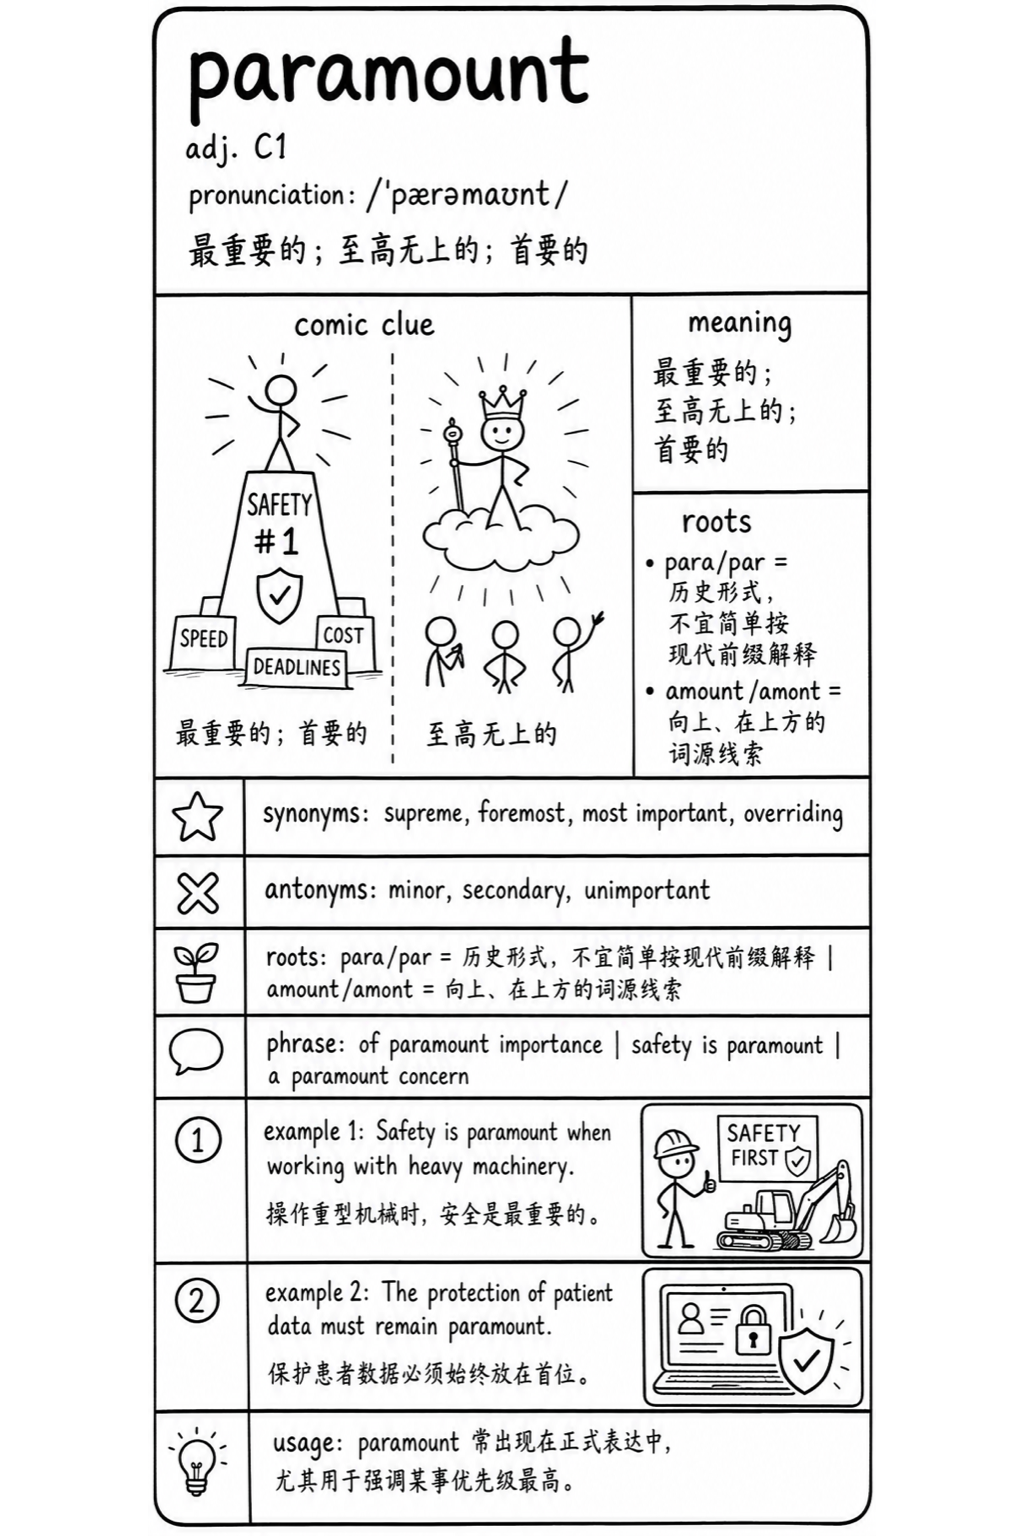
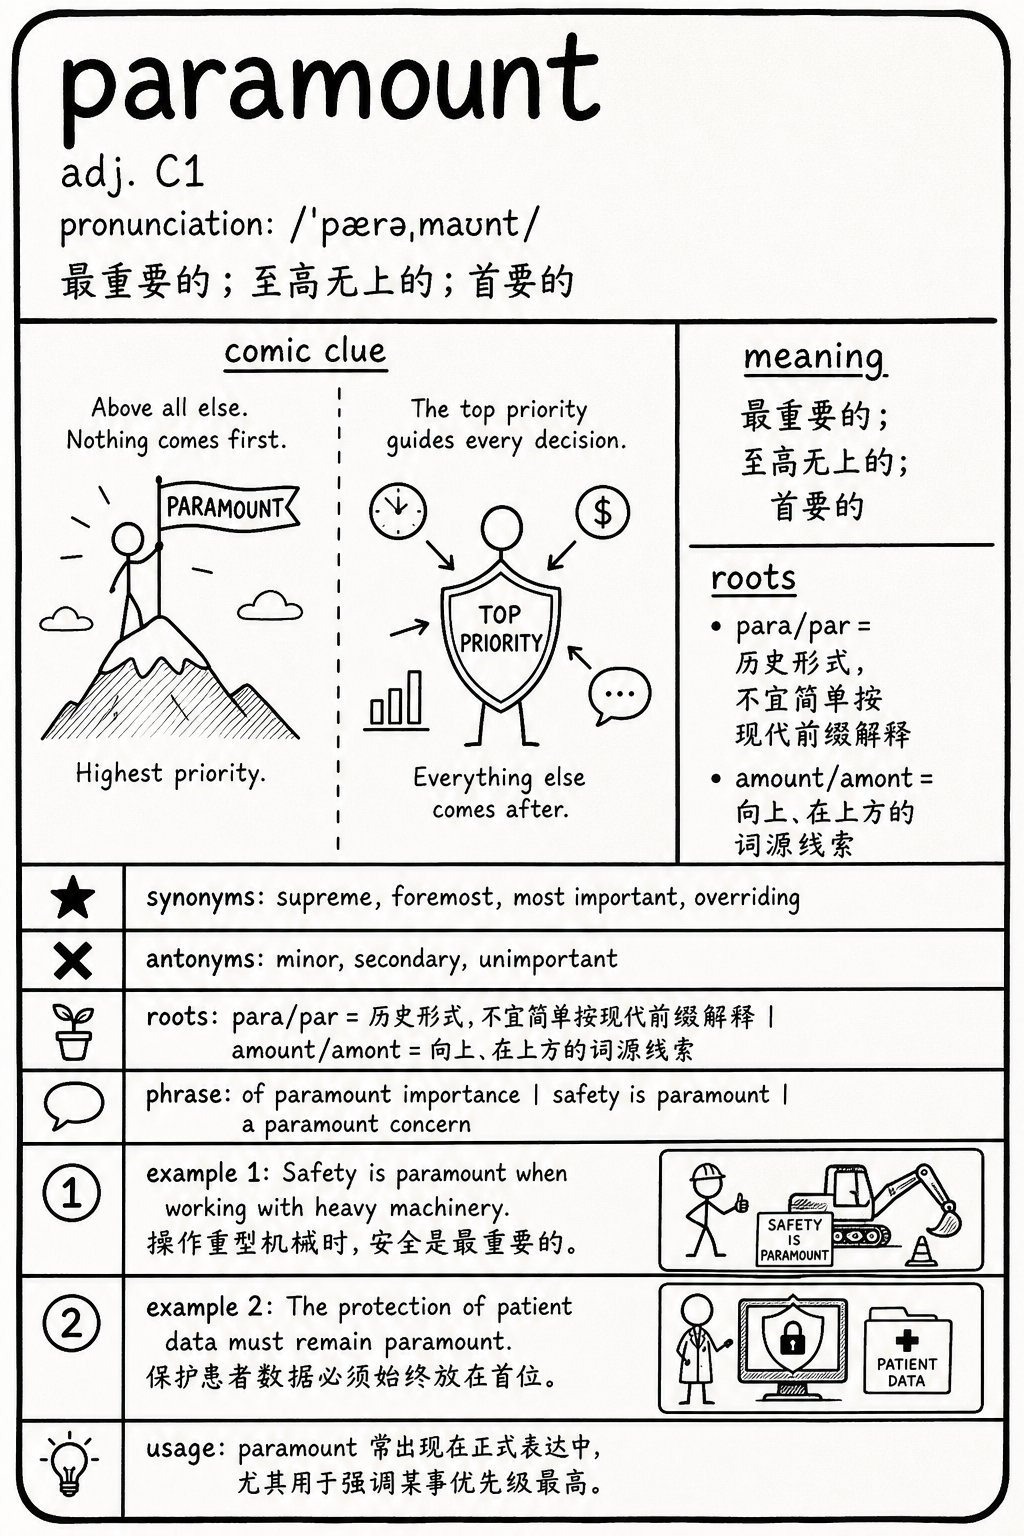
Regenerate fifteenth small word-card checkpoint

Changed region(s): [[0.0, 0.0, 1.0, 1.0]]

diff --git a/progress/status.md b/progress/status.md
@@ -439,7 +439,7 @@ Started: 2026-06-19
 ## Quality Notes
 
 - `4007-4026` completed the final missing 20 cards using verbatim prompt text from `jobs/prompts-08.jsonl` and `jobs/prompts-09.jsonl`. Reporting subagents confirmed the built-in `imagegen` / `image_gen` path only and no Codex CLI, subscription runners, external APIs, API keys, npm image scripts, `scripts/image_gen.py`, git operations, or progress-file edits. The main thread then verified the full repository with `npm run verify`: `expected: 4026`, `valid: 4026`, `missing: 0`, `invalid: 0`, `extra: 0`, and `duplicateHashes: 0`.
-- Small-file regeneration audit: after the user clarified that sub-1.5 MB images should be treated as non-standard rather than accepted on dimensions alone, the main thread started regenerating those candidates with imagegen-only subagents. Checkpoints 1-14 replaced 315 cards with native `1024x1536` outputs of at least 1.5 MB, with no local scaling, padding, white-border expansion, or canvas normalization. Checkpoint 14 replaced 24 cards from `2187-trivialize.png` through `2518-choppy.png`. Full repository validation after checkpoint 14 reported `expected: 4026`, `valid: 4026`, `missing: 0`, `invalid: 0`, `extra: 0`, and `duplicateHashes: 0`; the remaining sub-1.5 MB count is 131.
+- Small-file regeneration audit: after the user clarified that sub-1.5 MB images should be treated as non-standard rather than accepted on dimensions alone, the main thread started regenerating those candidates with imagegen-only subagents. Checkpoints 1-15 replaced 339 cards with native `1024x1536` outputs of at least 1.5 MB, with no local scaling, padding, white-border expansion, or canvas normalization. Checkpoint 15 replaced 24 cards from `2535-moss.png` through `2774-kiln.png`. Full repository validation after checkpoint 15 reported `expected: 4026`, `valid: 4026`, `missing: 0`, `invalid: 0`, `extra: 0`, and `duplicateHashes: 0`; the remaining sub-1.5 MB count is 107.
 - `3947-4006` were generated by six imagegen-only subagents using verbatim `jobs/prompts-08.jsonl` prompt text. Reporting subagents confirmed the built-in `imagegen` / `image_gen` path only and no Codex CLI, subscription runners, external APIs, API keys, npm image scripts, `scripts/image_gen.py`, git operations, or progress-file edits. The 60 PNGs were validated by the main thread as non-tiny 1024x1536 cards with unique hashes, and full repository validation reported `valid: 4006`, `missing: 20`, `invalid: 0`, `extra: 0`, and `duplicateHashes: 0`. `3977-genetic.png` was fixed by deterministic local white-background normalization to 1024x1536. Hard retries were reported for `3958-nonproliferation.png` and `3994-disarmament.png` due to weapon imagery; saved versions use neutral educational or symbolic treatment. Remaining generated handwriting/OCR/layout drift, if any, is quality-only per the latest user instruction.
 - `3887-3946` were generated by imagegen-only subagents using verbatim `jobs/prompts-08.jsonl` prompt text. Reporting subagents confirmed the built-in `imagegen` / `image_gen` path only and no Codex CLI, subscription runners, external APIs, API keys, npm image scripts, `scripts/image_gen.py`, git operations, or progress-file edits. The 60 PNGs were validated by the main thread as non-tiny 1024x1536 cards with unique hashes, and full repository validation reported `valid: 3946`, `missing: 80`, `invalid: 0`, `extra: 0`, and `duplicateHashes: 0`. `3887-liberal.png`, `3892-incompetent.png`, `3893-excess.png`, `3894-paternity.png`, `3895-essential.png`, `3896-ethnicity.png`, `3897-controversy.png`, `3920-coup.png`, `3921-harbor.png`, `3922-demonstrator.png`, and `3923-clash.png` were fixed by deterministic local white-background normalization to 1024x1536. Hard retries were reported for `3898-symptom.png` due to wrong large title, `3900-inflamed.png` due to duplicate-hash wrong-word content, and `3941-metaphor.png` due to duplicate-hash wrong-word content; `3887-3896` also required a one-card recovery worker after a `Bad Request` tool error. Saved versions use neutral educational or symbolic treatment; remaining generated handwriting/OCR/layout drift, if any, is quality-only per the latest user instruction.
 - `3827-3886` were generated by six imagegen-only subagents using verbatim `jobs/prompts-08.jsonl` prompt text. Reporting subagents confirmed the built-in `imagegen` / `image_gen` path only and no Codex CLI, subscription runners, external APIs, API keys, npm image scripts, `scripts/image_gen.py`, git operations, or progress-file edits. The 60 PNGs were validated by the main thread as non-tiny 1024x1536 cards with unique hashes, and full repository validation reported `valid: 3886`, `missing: 140`, `invalid: 0`, `extra: 0`, and `duplicateHashes: 0`. `3847-jubilant.png`, `3848-liberty.png`, `3853-inception.png`, `3854-designated.png`, `3855-fugitive.png`, `3856-jurisdiction.png`, `3857-depreciation.png`, and the `3867-3876` batch were fixed by deterministic local white-background normalization to 1024x1536. Hard retries were reported for `3829-ravage.png` due to weapon imagery, `3846-laud.png` due to a no-artifact tool/service error, `3852-bloodshed.png` due to weapon/violence symbols, and `3872-treaty.png` due to repeated weapon symbols from a source example mentioning weapons stockpiles. Saved versions use neutral educational or symbolic treatment; remaining generated handwriting/OCR/layout drift, if any, is quality-only per the latest user instruction.
